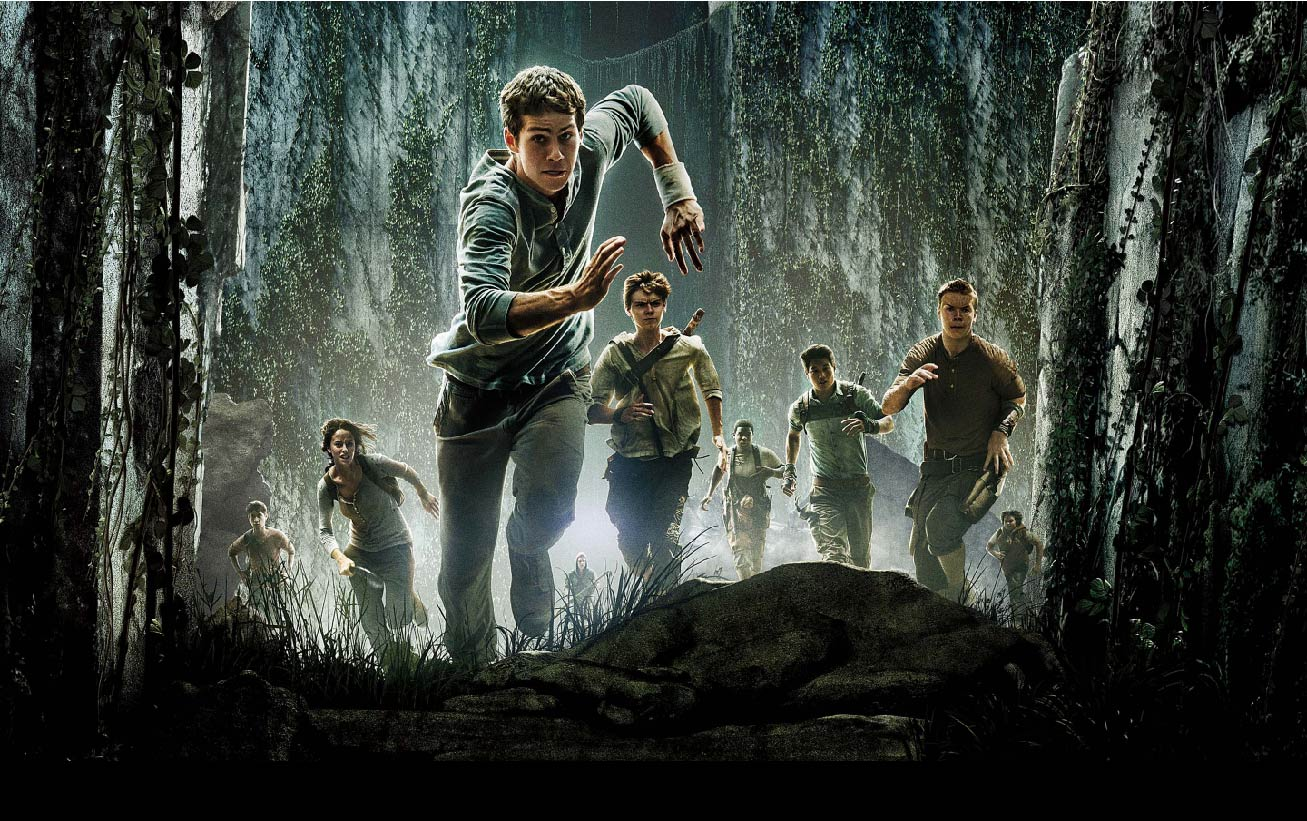
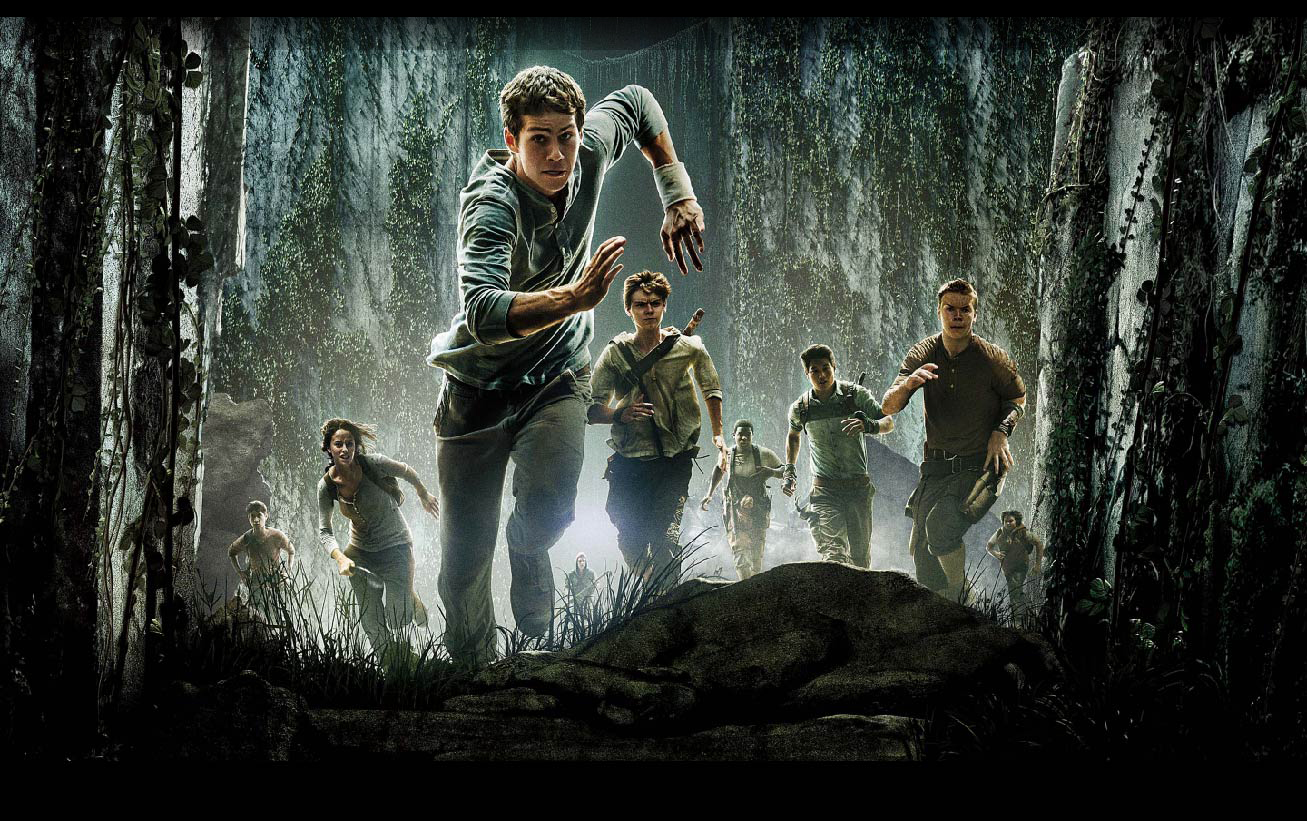
11/24
responsible1

Changed region(s): [[0.0612, 0.0, 1.0, 0.0609], [0.0, 0.0, 0.0306, 0.0609]]

diff --git a/image.html b/image.html
@@ -4,31 +4,22 @@
 	
 	<style>
 
-	body{background: url(G.jpg); background-repeat: no-repeat;
+	body{background: url(G.jpg); background-size: 100vw; background-repeat: no-repeat;
 		background-color: black;
 		margin-bottom: 0;
-		color: white;
+		color: black;
 		font-family: sans-serif;
 	}
 	p {
 		margin-top: 10;
 		margin-bottom: 0;
 	}
-	div{
-		text-align: center;
-		margin-top: 400;
-		margin-bottom: 0;
-
-	}
 	#a1 {
 		margin-top: 400;
 	}
-	img {
-		width: 800;
-	}
 	p {
 		text-align: center;
-		margin-bottom: 100;
+		margin-bottom: 10;
 	}
 	a:link {color: #fefeff; text-decoration: none;}
 	a:visited {color: #fefeff; text-decoration: none;}
@@ -38,15 +29,15 @@
 </head>
 <body>
 	<table border="0" width="100%" height="30" cellspacing="1">
-		<tr><td bgcolor="black" align="center"><font color="white"><a href="info.html">INFO</font></a><td bgcolor="black" align="center"><font color="white"><a href="image.html">IMAGE</font></a></font><td bgcolor="black" align="center"><font color="white"><a href="video.html">VIDEO</font></a></font></td></td></td></tr></table>
+		<tr><td align="center"><font color="white"><a href="info.html"><img src="info1.png" width="60%"></font></a><td align="center"><font color="white"><a href="image.html"><img src="image1.png" width="60%"></font></a></font><td align="center"><font color="white"><a href="video.html"><img src="video1.png" width="60%"></font></a></font></td></td></td></tr></table>
 	<p id="a1">
-		<img src="bg.jpg">
+		<img src="bg.jpg" width="100%">
 	</p>
-	<p><img src="g.jpg"></p>
-	<p><img src="111.jpg"></p>
-	<p><img src="222.jpg"></p>
-	<p><img src="333.jpg"></p>
-	<p><img src="444.jpg"></p>
-	<p><img src="555.jpeg"></p>
+	<p><img src="g.jpg" width="100%"></p>
+	<p><img src="111.jpg" width="100%"></p>
+	<p><img src="222.jpg" width="100%"></p>
+	<p><img src="333.jpg" width="100%"></p>
+	<p><img src="444.jpg" width="100%"></p>
+	<p><img src="555.jpeg" width="100%"></p>
 </body>
 </html>

diff --git a/video.html b/video.html
@@ -1,14 +1,15 @@
 <html>
 <head>
 	<title>the maze runner</title>
-<body style="background:url(G.jpg); background-repeat:no-repeat">
 
 	<style>
-		body {
-			background-color: black;
+	body{
+		background: url(G.jpg); background-size: 100vw; background-repeat: no-repeat;
+		background-color: black;
+		margin-bottom: 0;
+		color: black;
 		font-family: sans-serif;
 	}
-	
 	.aa {
 		margin: 200;
 	}
@@ -20,13 +21,13 @@
 </head>
 <body>
 	<table border="0" width="100%" height="30" cellspacing="1">
-		<tr><td bgcolor="black" align="center"><font color="white"><a href="info.html">INFO</font></a><td bgcolor="black" align="center"><font color="white"><a href="image.html">IMAGE</font></a></font><td bgcolor="black" align="center"><font color="white"><a href="video.html">VIDEO</font></a></font></td></td></td></tr></table>
+		<tr><td align="center"><font color="white"><a href="info.html"><img src="info1.png" width="60%"></font></a><td align="center"><font color="white"><a href="image.html"><img src="image1.png" width="60%"></font></a></font><td align="center"><font color="white"><a href="video.html"><img src="video1.png" width="60%"></font></a></font></td></td></td></tr></table>
 
 <table border="0" width="100%" height="100%" cellspacing="0" cell padding="0" align="center">
 		<tr><td width="100%" valign="middle">
 			<table border="0" width="100%" height="100%" cellspacing="0" cellpadding="0" align="center">
 				<tr><td id="aa" width="100%" align="center">
-<embed src="1.mp4" width="854" height="500"></embed>
+<embed src="1.mp4" width="85%" height="50%"></embed>
 </td></tr>
 </table>
 </td></tr>

diff --git a/index.html b/index.html
@@ -1,13 +1,24 @@
 <html>
 <head>
 	<title>THE MAZE RUNNER</title>
-
-	<body style="background:url(BG.jpg); background-repeat:no-repeat">
-
-		<script>
- var surname = prompt('What is your name?');
-  alert("Hi! "+surname)
+<script type="text/javascript">
+ 
+function checkGo( ) {
+        var url = document.getElementById("go");
+        var answer = prompt("How old are you ?");
+        if (answer >=13) {
+            url.href="info.html";
+        }
+}
 </script>
+<style>
+body{background: url(BG.jpg); background-size: 100vw; background-repeat: no-repeat;
+		background-color: black;
+		background-position: center;
+		margin-bottom: 0;
+		color: black;
+		}
+		</style>
 
 </head>
 <body>
@@ -16,7 +27,7 @@
 		<tr><td width="100%" valign="middle">
 			<table border="0" width="100%" height="100%" cellspacing="0" cellpadding="0" align="center">
 				<tr><td width="100%" align="center">
-<a href="info.html"> <img src="r.png" border="0" align="middle">
+<p><a href="#" onclick="checkGo()" id="go"><img src="r.png" border="0" align="middle" width="60%"></a></p>
 </td></tr>
 </table>
 </td></tr>
